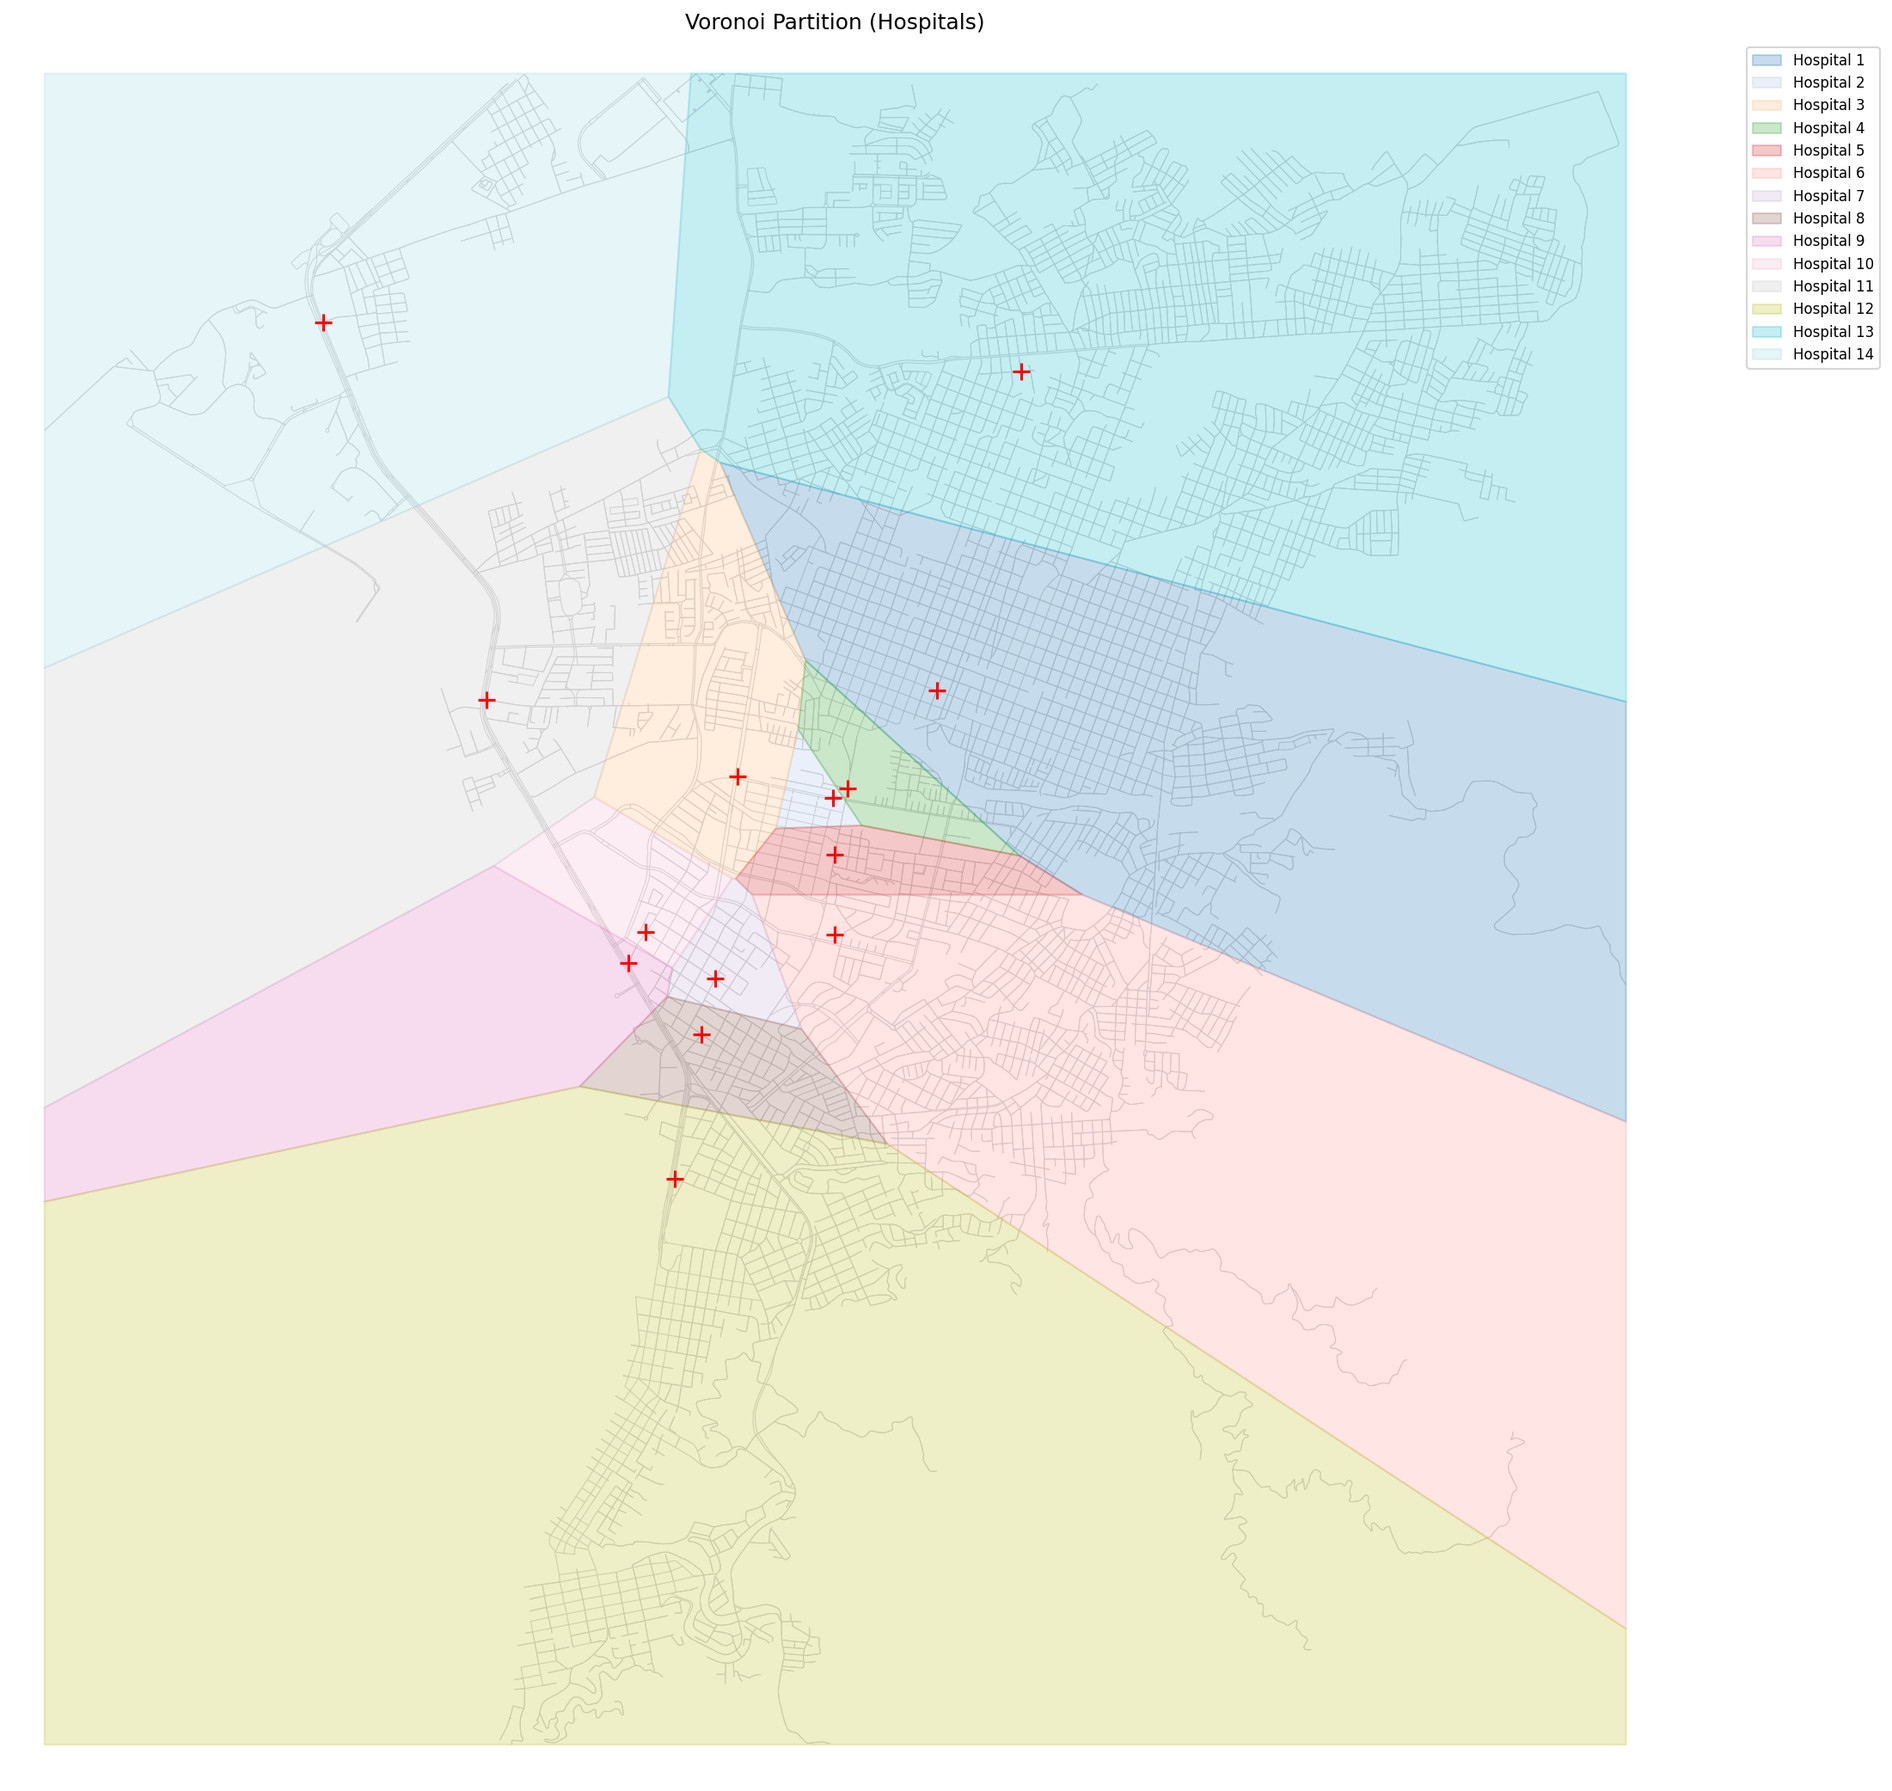
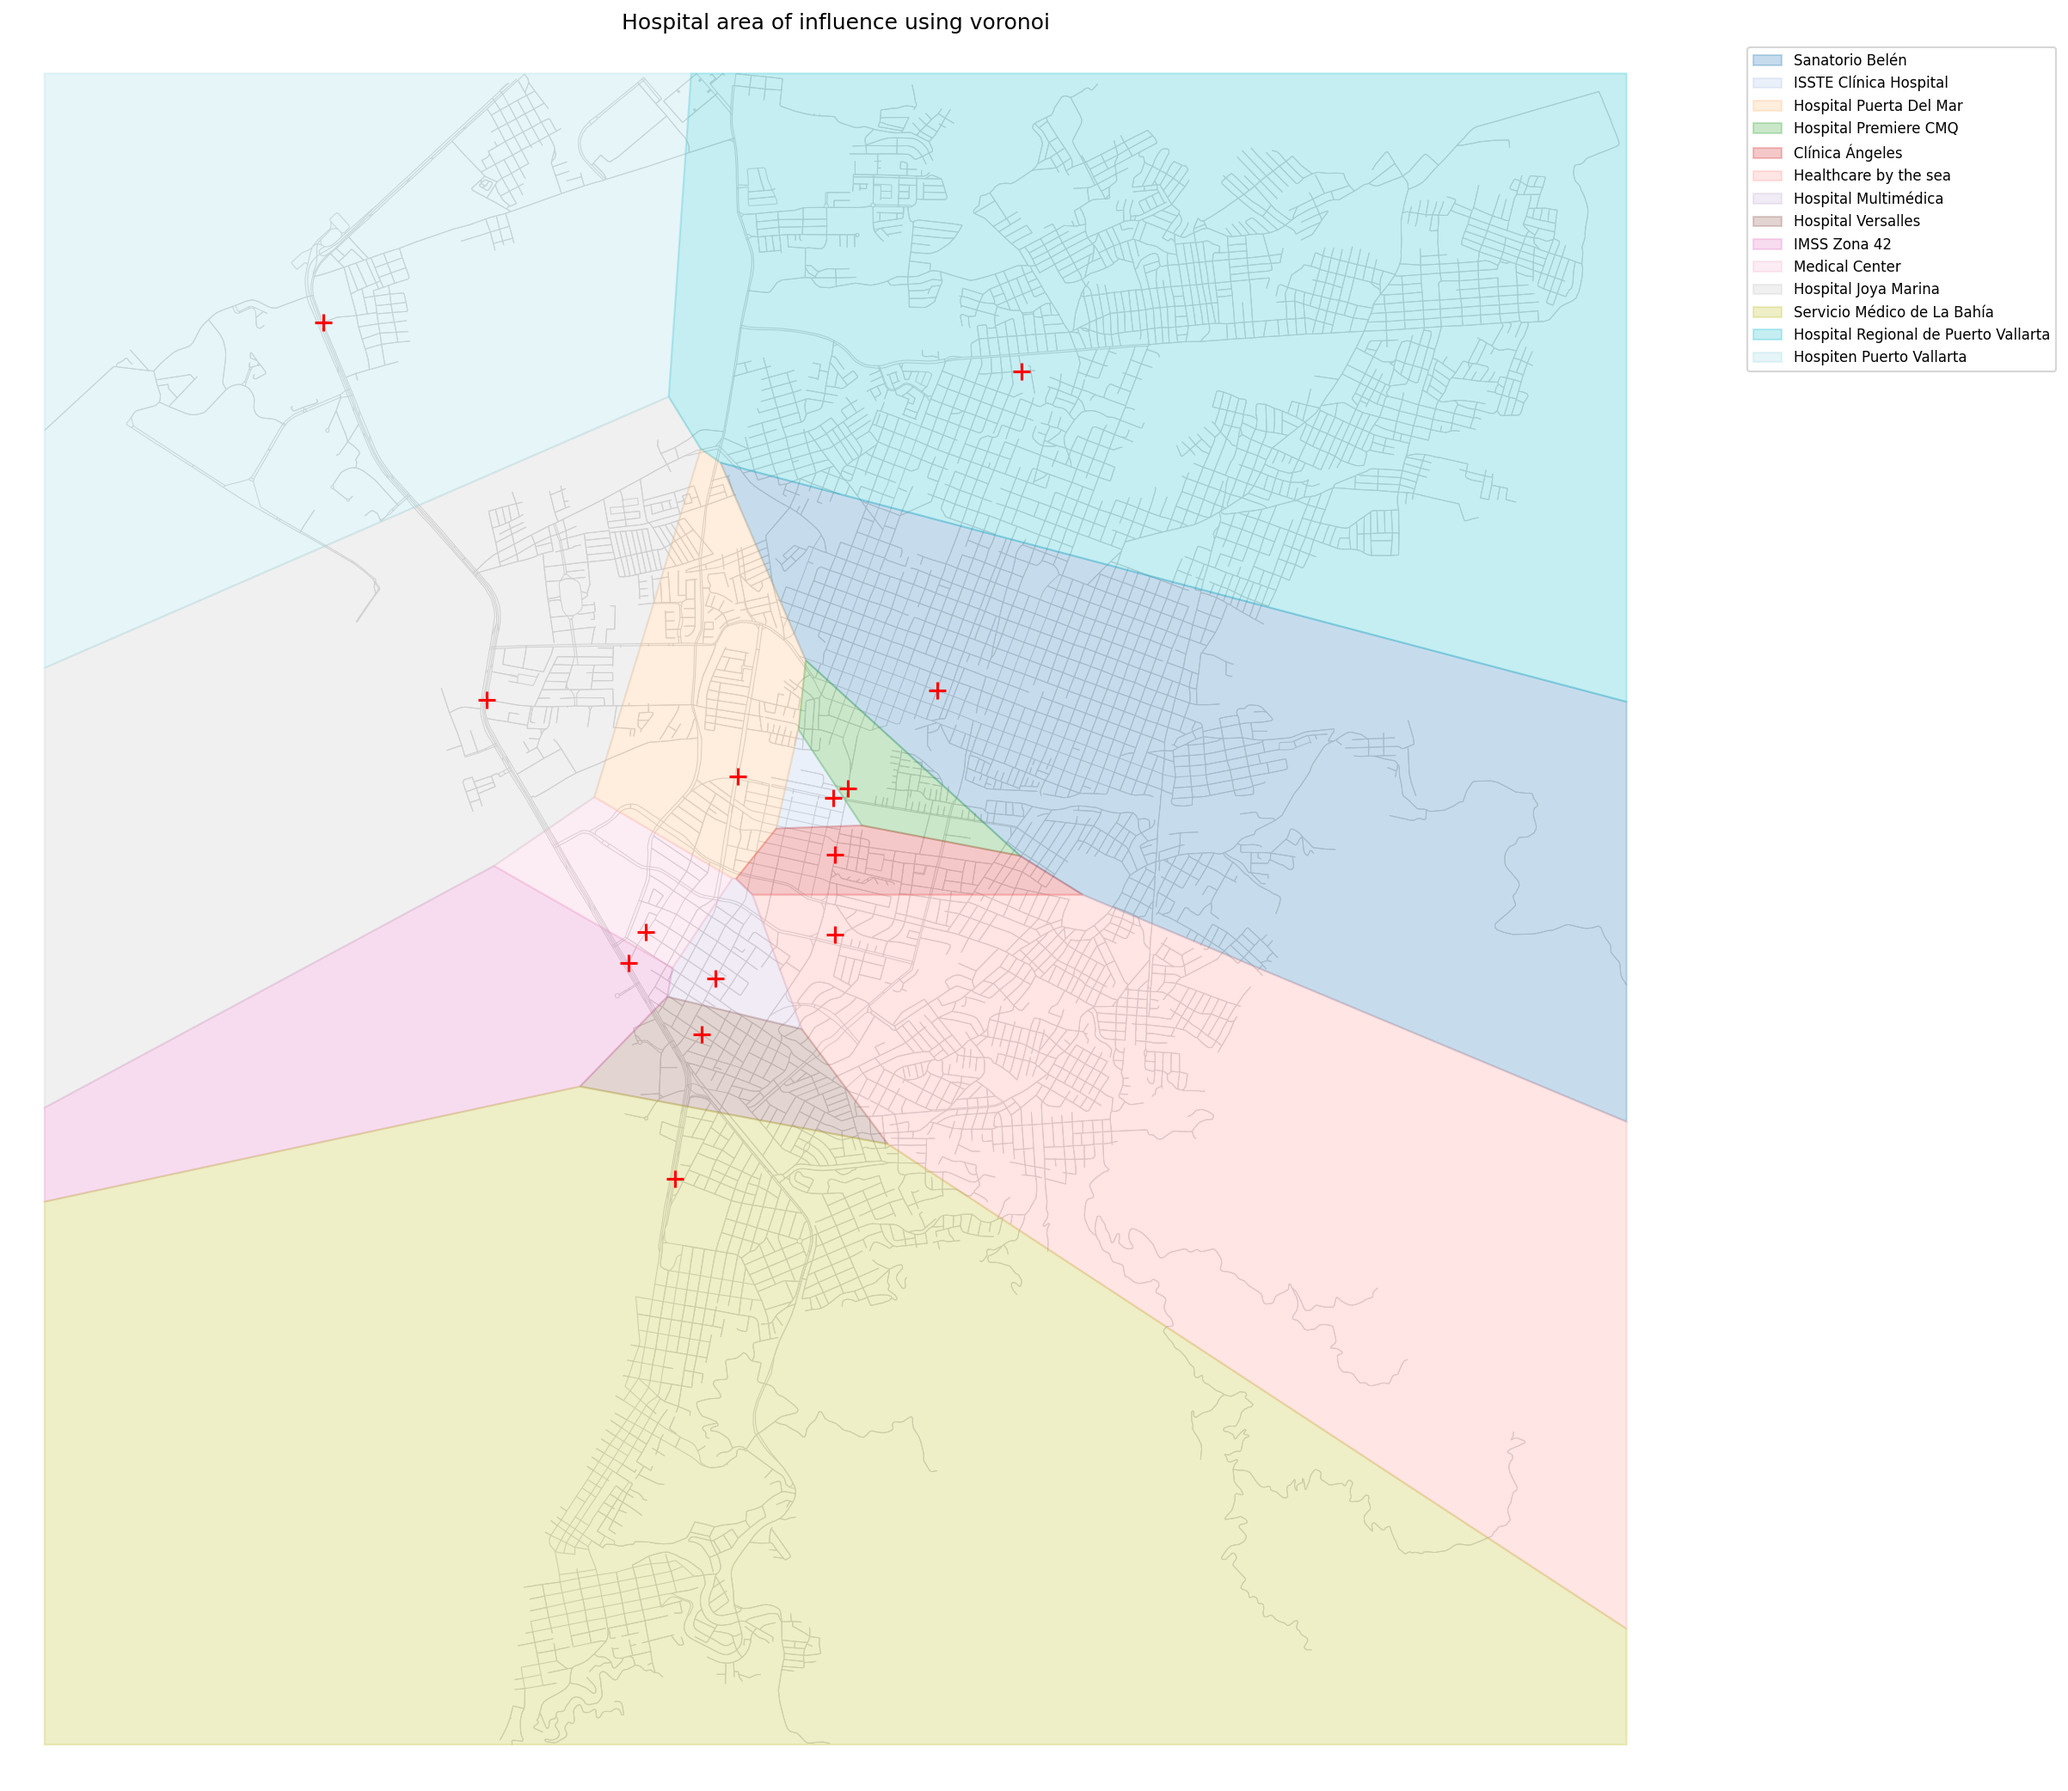
Map with names

diff --git a/component3.py b/component3.py
@@ -31,8 +31,25 @@ HOSPITAL_COORDS = [
 
 ]
 
+HOSPITAL_NAMES = [
+    'Sanatorio Belén',
+    'ISSTE Clínica Hospital',
+    'Hospital Puerta Del Mar',
+    'Hospital Premiere CMQ',
+    'Clínica Ángeles',
+    'Healthcare by the sea',
+    'Hospital Multimédica',
+    'Hospital Versalles',
+    'IMSS Zona 42',
+    'Medical Center',
+    'Hospital Joya Marina',
+    'Servicio Médico de La Bahía',
+    'Hospital Regional de Puerto Vallarta',
+    'Hospiten Puerto Vallarta'
+]
 
-def voronoi_finite_polygons_2d(vor, radius=None):
+
+def generate_voro_points(vor, radius=None):
 
     if vor.points.shape[1] != 2:
         raise ValueError("Requires 2D input")
@@ -86,7 +103,7 @@ def voronoi_finite_polygons_2d(vor, radius=None):
         new_regions.append(new_region)
 
     return new_regions, np.asarray(new_vertices)
-class HospitalRoutePlanner:
+class RoutePlanner:
     def __init__(self):
         print("Loading map data...")
     
@@ -102,31 +119,27 @@ class HospitalRoutePlanner:
         self.hospital_coords = HOSPITAL_COORDS 
         self.hospital_nodes = []               
         self.voronoi_regions = []
+        self.hospital_names = HOSPITAL_NAMES
 
-        self._setup_system()
+        self.set_nodes()
 
-    def _setup_system(self):
+    def set_nodes(self):
         print("\nFinding nearest nodes for hospitals")
         
-        for i, (lat, lon) in enumerate(self.hospital_coords, 1):
+        for i, (lat, lon) in enumerate(self.hospital_coords):
             nearest_node = ox.distance.nearest_nodes(self.G, lon, lat)
             self.hospital_nodes.append(nearest_node)
             node_data = self.G.nodes[nearest_node]
-            print(f"Hospital {i+1}: ({lat:.6f}, {lon:.6f}) -> Node {nearest_node} "
+            print(f"{self.hospital_names[i]}: ({lat:.6f}, {lon:.6f}) -> Node {nearest_node} "
                   f"({node_data['y']:.6f}, {node_data['x']:.6f})")
             
         print(f"\nMapped {len(self.hospital_nodes)} hospitals to graph nodes")
     
-    # 2) Voronoi en CRS proyectado
+    #Voronoi in CRS 
     def create_voronoi_partition(self):
-        """
-        Generate Voronoi partition based on hospital locations.
-        Voronoi se hace en el grafo proyectado (metros) y se recorta
-        al bounding box del grafo.
-        """
+
         print("\nCreating Voronoi partition area coverage")
         
-        # Coordenadas en CRS proyectado
         points = np.array([
             [self.G_proj.nodes[node]['x'], self.G_proj.nodes[node]['y']]
             for node in self.hospital_nodes
@@ -134,7 +147,7 @@ class HospitalRoutePlanner:
         
         # Voronoi 
         vor = Voronoi(points)
-        regions, vertices = voronoi_finite_polygons_2d(vor)
+        regions, vertices = generate_voro_points(vor)
         
         # Bounding box 
         nodes_gdf = ox.graph_to_gdfs(self.G_proj, edges=False)
@@ -156,7 +169,7 @@ class HospitalRoutePlanner:
     
     
     #Región Voronoi para un nodo
-    def _get_region_for_node(self, node_id):
+    def setRegionNode(self, node_id):
         x = self.G_proj.nodes[node_id]['x']
         y = self.G_proj.nodes[node_id]['y']
         p = Point(x, y)
@@ -192,7 +205,7 @@ class HospitalRoutePlanner:
         for i, poly in enumerate(self.voronoi_regions):
             if poly.geom_type == "Polygon":
                 x, y = poly.exterior.xy
-                ax.fill(x, y, alpha=0.25, color=colors[i], label=f'Hospital {i+1}')
+                ax.fill(x, y, alpha=0.25, color=colors[i], label=f'{self.hospital_names[i]}')
             elif poly.geom_type == "MultiPolygon":
                 for sub_poly in poly.geoms:
                     x, y = sub_poly.exterior.xy
@@ -209,7 +222,7 @@ class HospitalRoutePlanner:
         plt.tight_layout()
         return fig, ax
     
-    def _astar_search(self, start, goal):
+    def astar(self, start, goal):
 
         def heuristic(node, goal_node):
             x1 = self.G_proj.nodes[node]['x']
@@ -265,25 +278,26 @@ class HospitalRoutePlanner:
         query_node_lat = self.G.nodes[query_node]['y']
         query_node_lon = self.G.nodes[query_node]['x']
         
+
         print(f"\n  Query coordinates: ({query_lat:.6f}, {query_lon:.6f})")
         print(f"  Nearest node: {query_node} at ({query_node_lat:.6f}, {query_node_lon:.6f})")
         
         # Step 2: Determine hospital using Voronoi
         
-        hospital_idx = self._get_region_for_node(query_node)
+        hospital_idx = self.setRegionNode(query_node)
         hospital_node = self.hospital_nodes[hospital_idx]
         
         hospital_lat = self.hospital_coords[hospital_idx][0]
         hospital_lon = self.hospital_coords[hospital_idx][1]
-        
-        print(f"\n Assigned to: HOSPITAL {hospital_idx + 1}")
+        hospital_name = self.hospital_names[hospital_idx]
+        print(f"\n Assigned to HOSPITAL: {hospital_name}")
         print(f" Hospital location: ({hospital_lat:.6f}, {hospital_lon:.6f})")
 
         
         # Step 3: Calculate route with A*
         print(f"\n CALCULATING ROUTE ...")
         start_time = time.time()
-        route, nodes_explored = self._astar_search(query_node, hospital_node)
+        route, nodes_explored = self.astar(query_node, hospital_node)
         astar_time = time.time() - start_time
         
         if route is None:
@@ -345,9 +359,9 @@ class HospitalRoutePlanner:
             
             if i == hospital_idx:
                 # Highlight destination hospital
-                ax.scatter([h_x], [h_y], c='red', s=400, marker='*',
+                ax.scatter([h_x], [h_y], c='red', s=250, marker='*',
                           edgecolors='darkred', linewidths=3, zorder=10,
-                          label=f'DESTINATION: Hospital {i+1}')
+                          label=f'DESTINATION: {self.hospital_names[i]}')
             else:
                 # Other hospitals
                 ax.scatter([h_x], [h_y], c='lightcoral', s=150, marker='+',
@@ -364,12 +378,12 @@ class HospitalRoutePlanner:
         if route:
             start_x = self.G.nodes[query_node]['x']
             start_y = self.G.nodes[query_node]['y']
-            ax.scatter([start_x], [start_y], c='blue', s=300,
+            ax.scatter([start_x], [start_y], c='blue', s=100,
                       marker='o', edgecolors='blue', linewidths=3,
                       label='QUERY LOCATION', zorder=11)
         
         # Title and legend
-        ax.set_title(f'Route to Hospital {hospital_idx + 1}\n'
+        ax.set_title(f'Route to Hospital {self.hospital_names[i]}\n'
                     f'From ({query_lat:.5f}, {query_lon:.5f})',
                     fontsize=16, fontweight='bold', pad=20)
         
@@ -386,7 +400,7 @@ class HospitalRoutePlanner:
 
 def main():
 
-    planner = HospitalRoutePlanner()
+    planner = RoutePlanner()
     planner.create_voronoi_partition()
     planner.visualize_voronoi(figsize=(16,14))
     plt.savefig('voronoi_partition.png', dpi=150, bbox_inches='tight')
